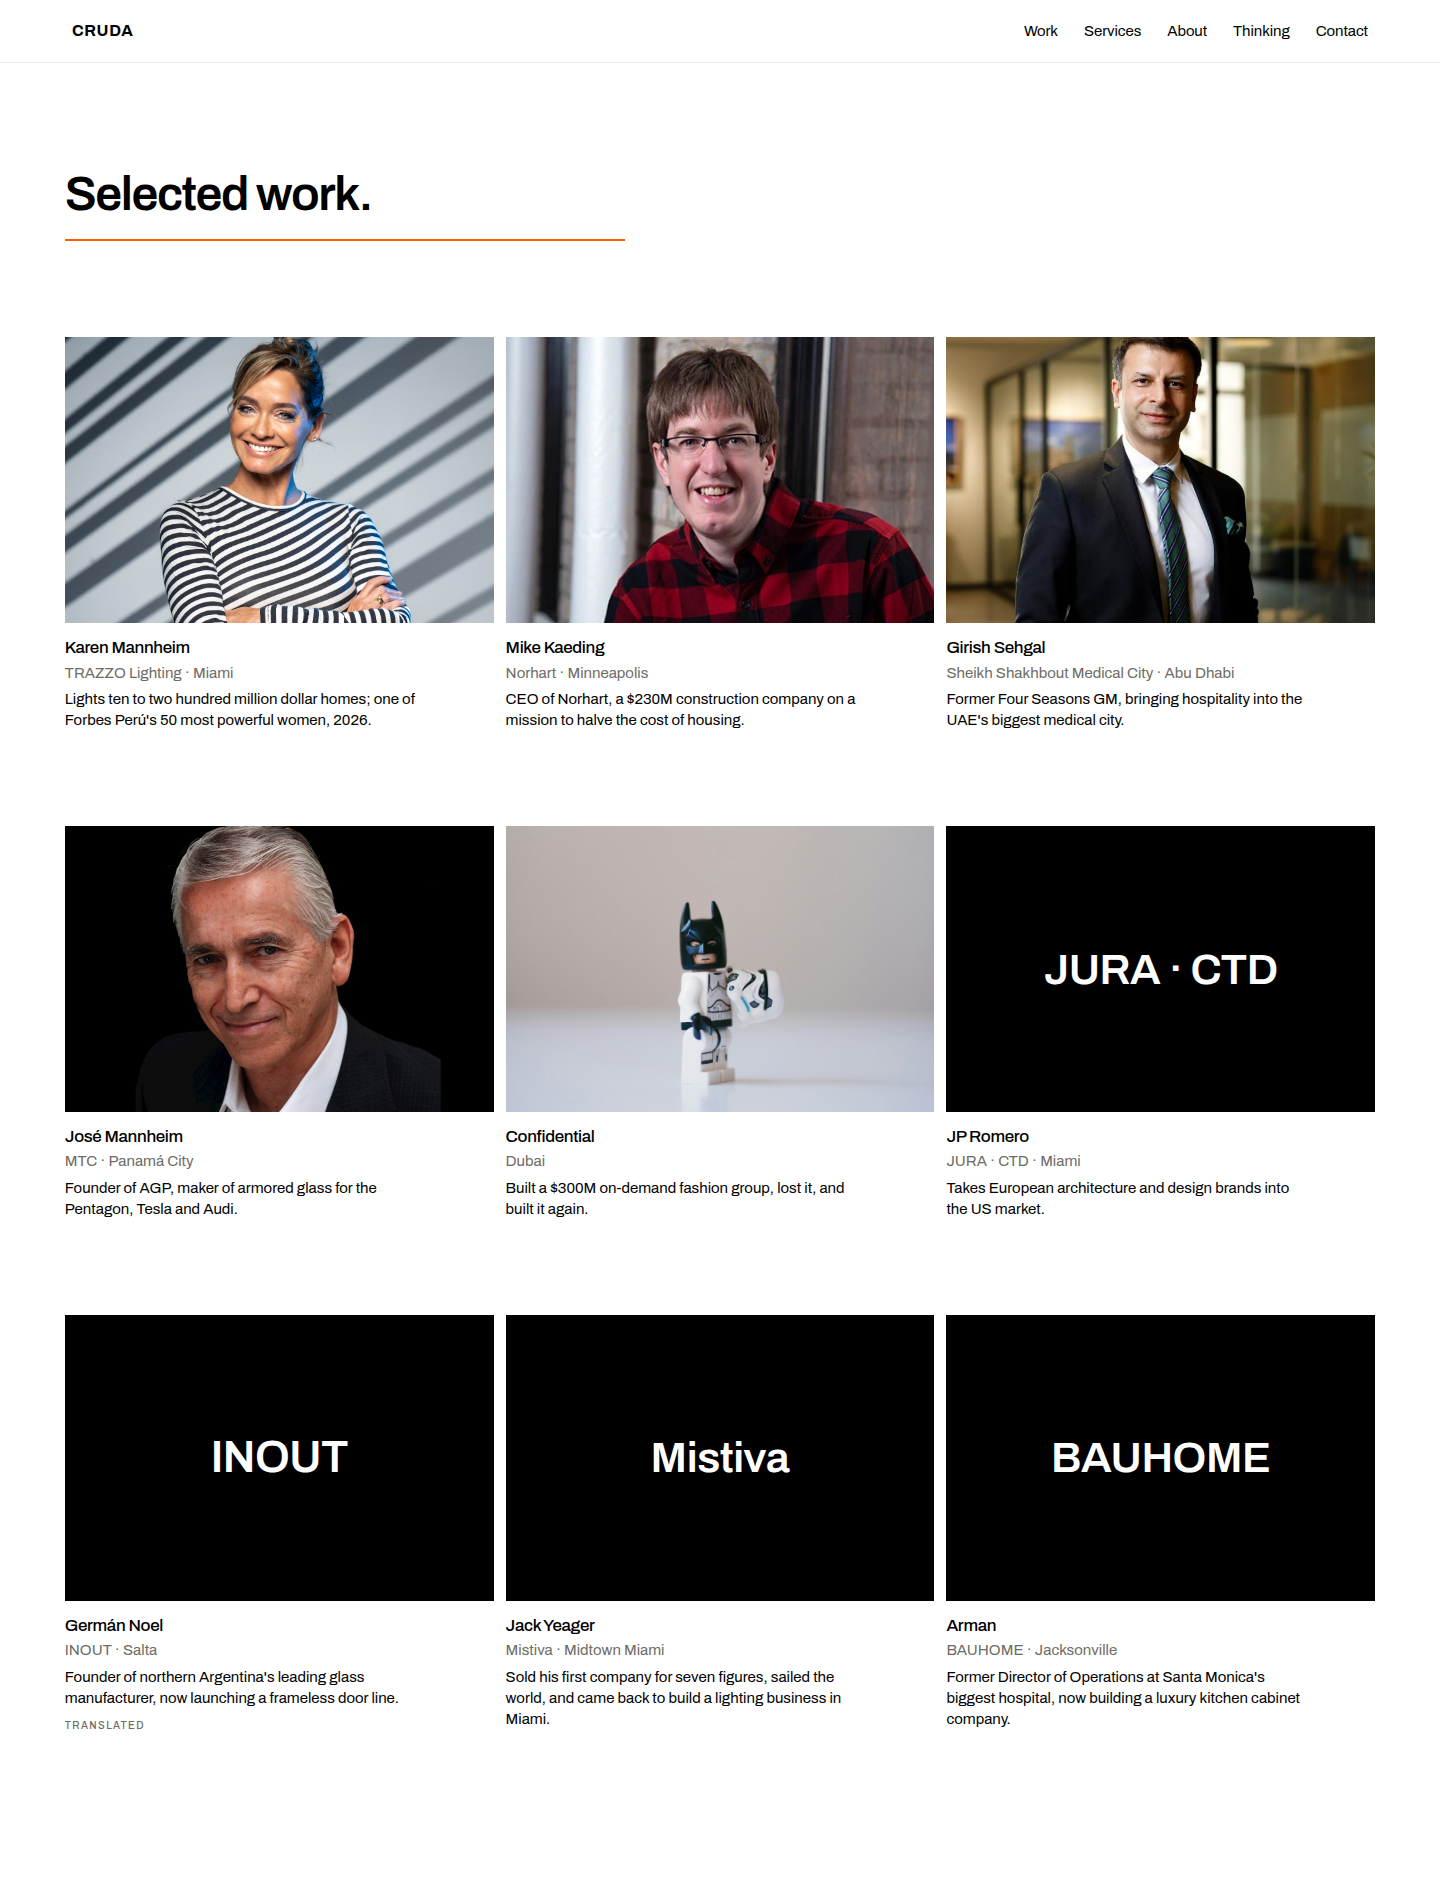
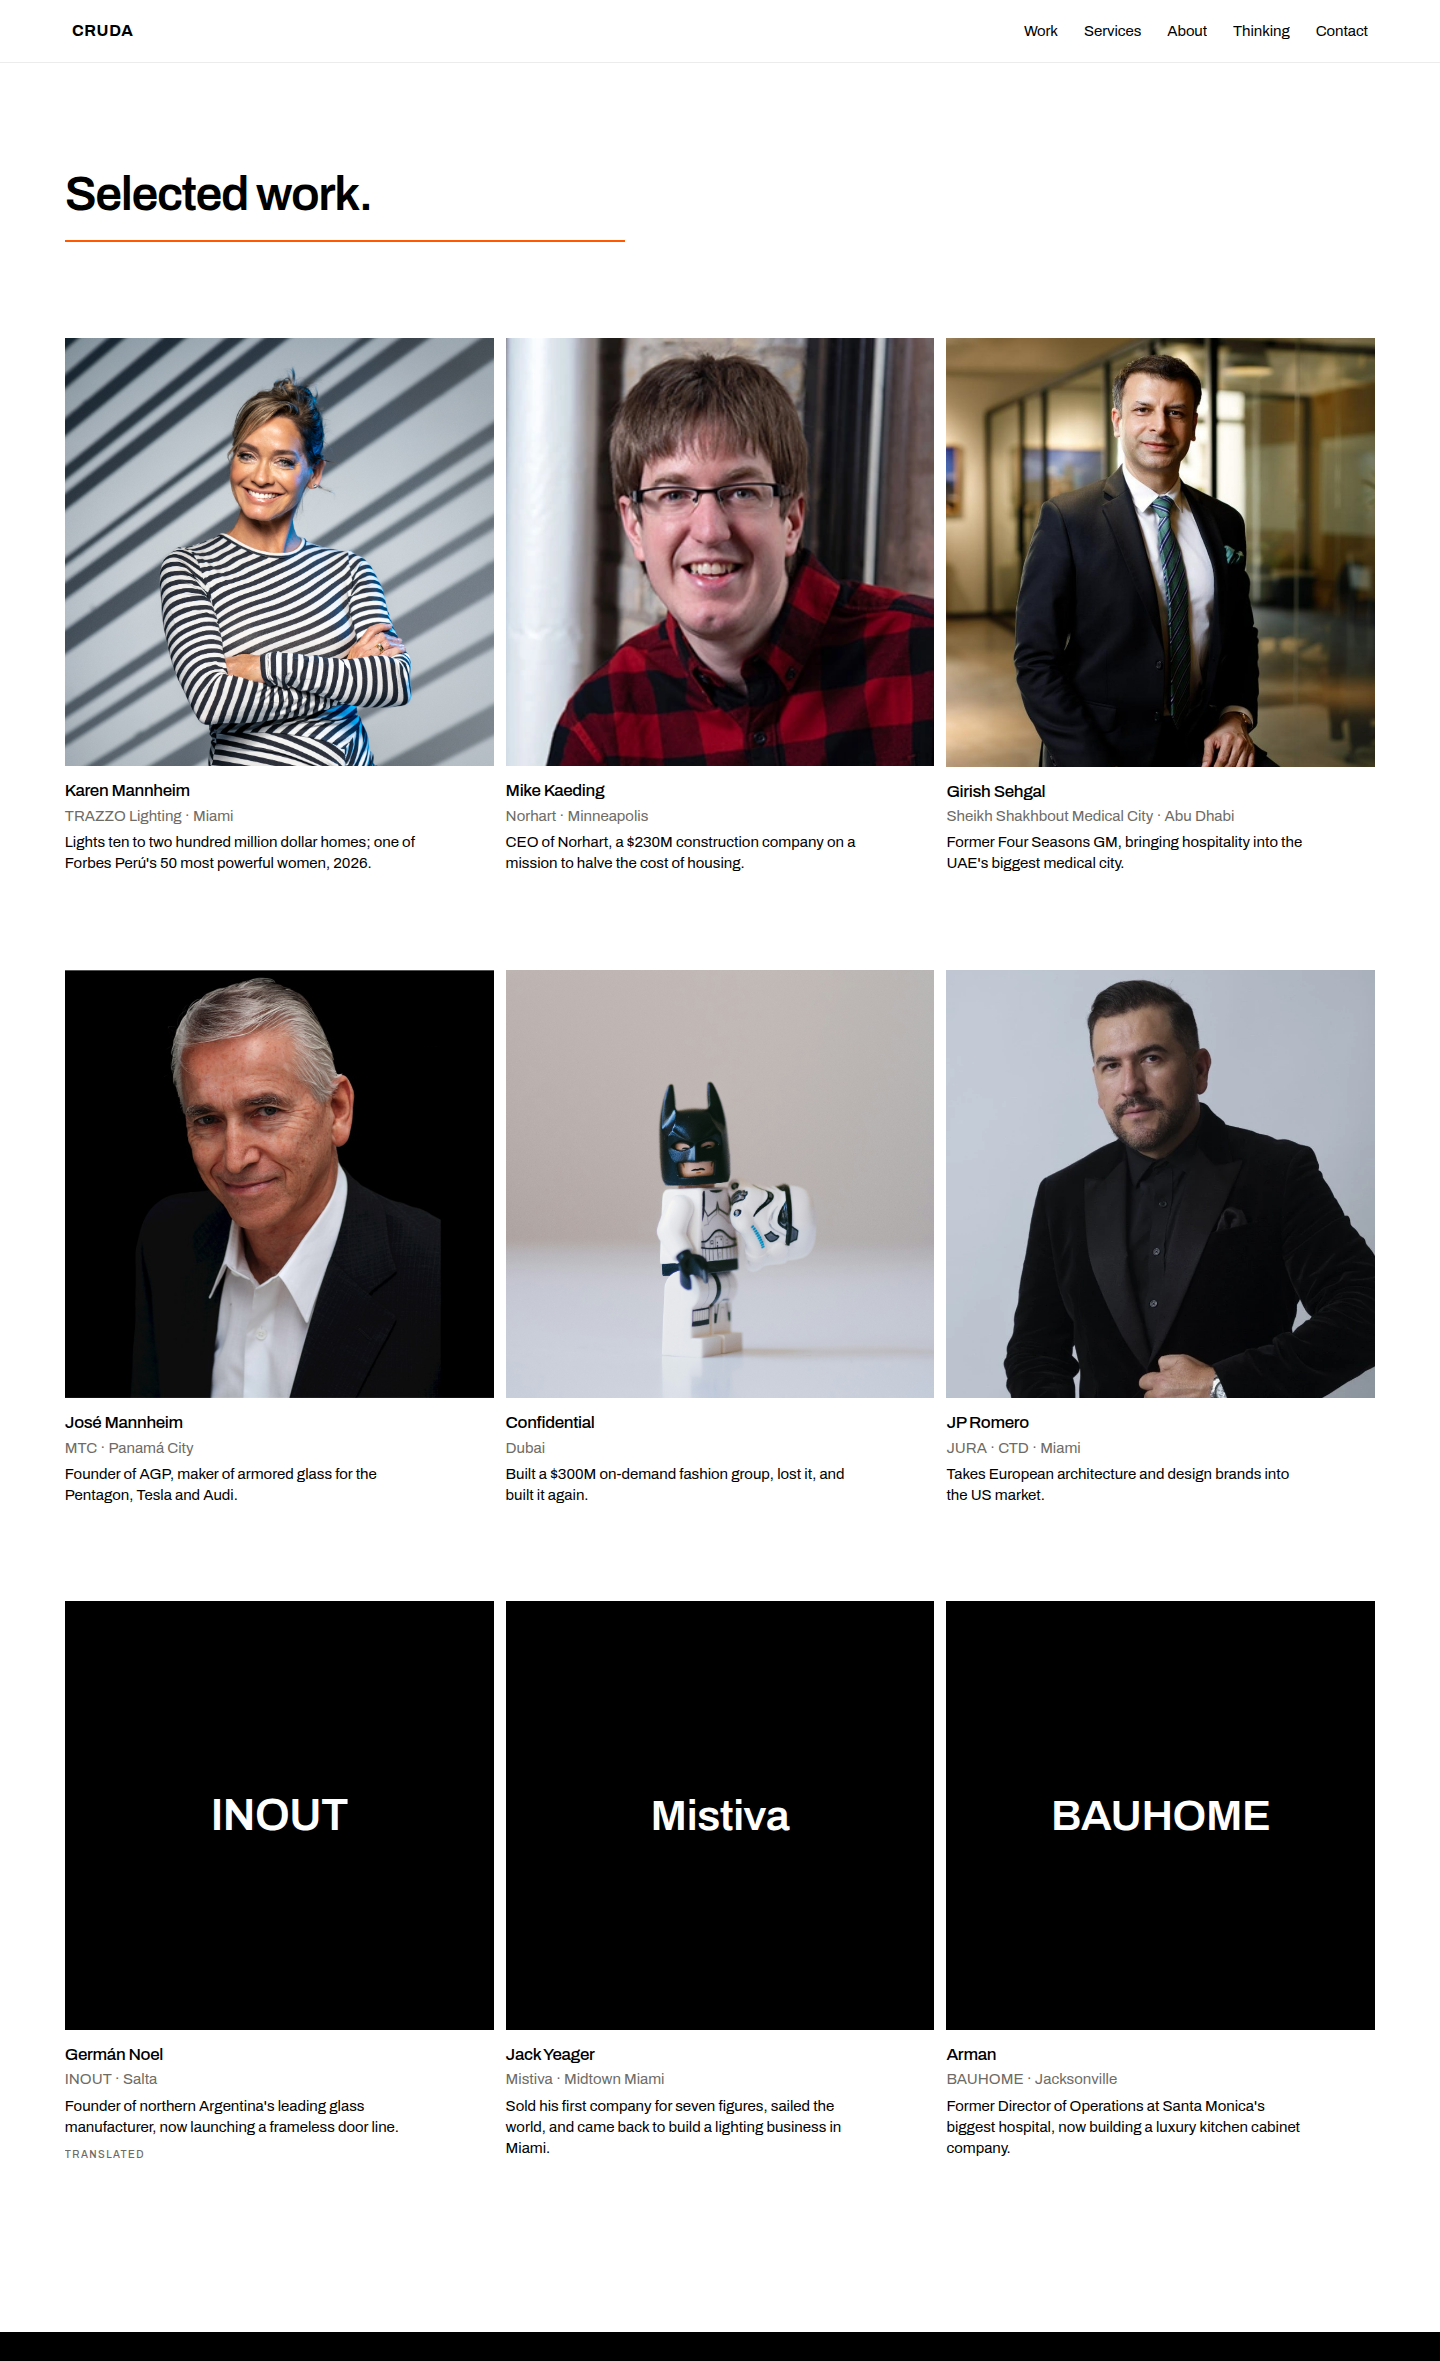
F21 · aspect-ratio 1/1 + object-positions actualizadas
Marco de las 9 cards pasa de 3:2 a 1:1 (mismo cuadrado en fotos y
portadas tipográficas).

Object-positions (nuevo criterio Fran, 22-sep):
· Karen  · center 20%
· Mike   · center 30%
· Girish · center 15%
· José   · center 20%
· JP     · center 20%
· Confidential · center 50%

Capturas 1440 (sin hover, hover Karen, hover Germán) + 390
regeneradas.

Claude-Session: https://claude.ai/code/session_01JYAFff2nd8GS6Ghghu76xP

diff --git a/src/components/home/SelectedWork.tsx b/src/components/home/SelectedWork.tsx
@@ -46,7 +46,7 @@ const CARDS: Card[] = [
     service: ['TRANSLATED', 'TRANSMISSION'],
     href: '/work/karen-mannheim',
     imageSrc: '/karen-mannheim.webp',
-    objectPosition: 'center 25%',
+    objectPosition: 'center 20%',
   },
   {
     name: 'Mike Kaeding',
@@ -66,7 +66,7 @@ const CARDS: Card[] = [
     service: ['TRANSLATED'],
     href: '/work/girish-sehgal',
     imageSrc: '/girish-sehgal.webp',
-    objectPosition: 'center 20%',
+    objectPosition: 'center 15%',
   },
   {
     name: 'José Mannheim',
@@ -76,7 +76,7 @@ const CARDS: Card[] = [
     service: ['TRANSLATED'],
     href: '/work/mannheim-trading',
     imageSrc: '/jose-mannheim.webp',
-    objectPosition: 'center 12%',
+    objectPosition: 'center 20%',
   },
   {
     name: 'Confidential',
@@ -86,7 +86,7 @@ const CARDS: Card[] = [
     service: ['INTERPRETED'],
     href: '/work/confidential-fashion-founder',
     imageSrc: '/confidential-hero.jpg',
-    objectPosition: 'center 40%',
+    objectPosition: 'center 50%',
   },
   {
     name: 'JP Romero',
@@ -97,7 +97,7 @@ const CARDS: Card[] = [
     href: '/work/juan-pablo-romero',
     imageSrc: '/juan-pablo-romero.webp',
     /* F21 · foto aprobada por Fran (22-sep). Cara en tercio superior. */
-    objectPosition: 'center 25%',
+    objectPosition: 'center 20%',
   },
   {
     name: 'Germán Noel',

diff --git a/src/components/home/selected-work.css b/src/components/home/selected-work.css
@@ -45,9 +45,9 @@
 }
 .sw-card--flat { cursor: default; }
 
-/* Marco 3:2 · aloja foto o portada tipográfica. */
+/* Marco 1:1 · aloja foto o portada tipográfica. */
 .sw-card__m {
-  aspect-ratio: 3 / 2;
+  aspect-ratio: 1 / 1;
   overflow: hidden;
   background: #DEDAD2;
 }
